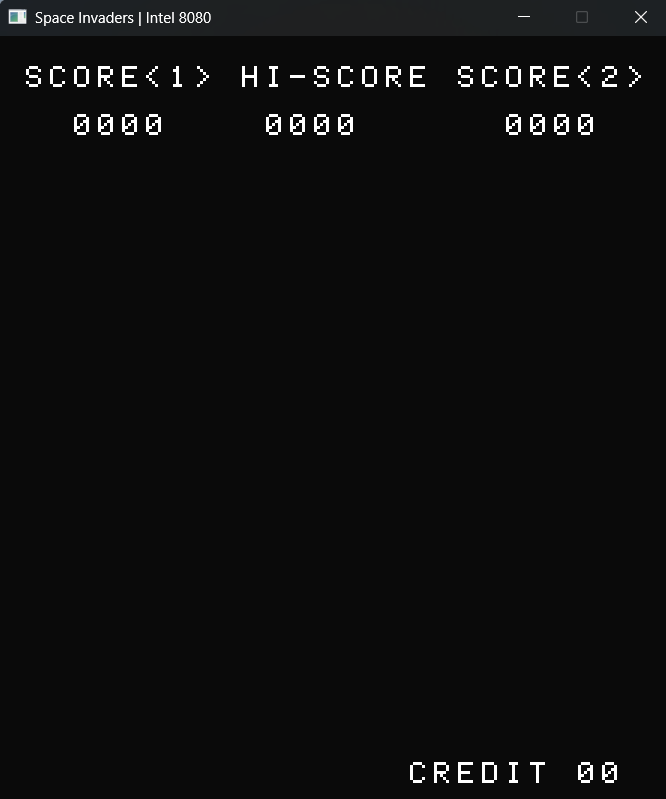
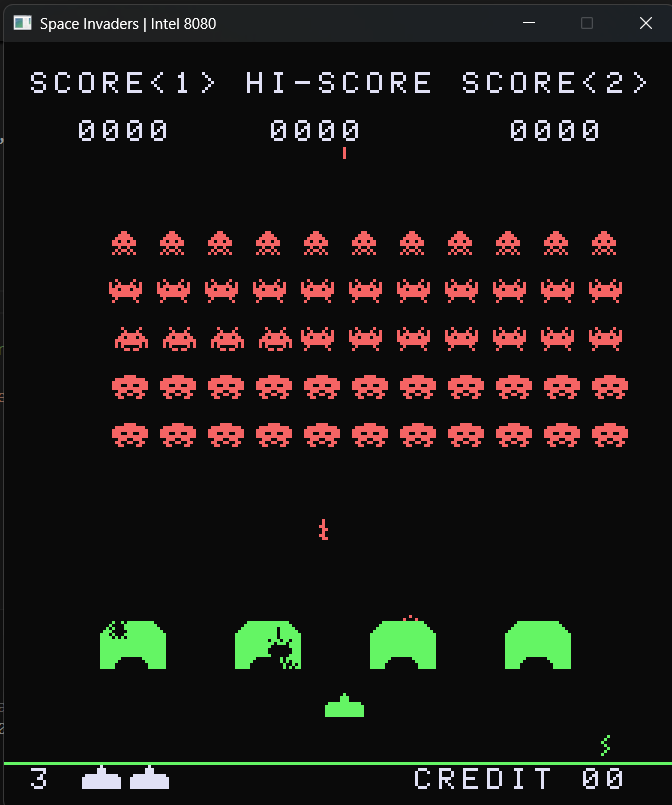
fix(shifting): Fixed 16-bit shifting hardware and now sprites show up properly.

diff --git a/app/src/main.rs b/app/src/main.rs
@@ -2,9 +2,9 @@ mod utils;
 mod invaders_bus;
 
 use sdl3::{event::Event, keyboard::Keycode, pixels::Color, rect::Point};
-use std::{sync::{Arc, RwLock}, thread, time::Duration};
+use std::{cell::RefCell, rc::Rc, sync::{Arc, RwLock}, thread, time::Duration};
 
-use invaders_bus::InvadersBus;
+use invaders_bus::{InvadersBus, InvadersInputState};
 use r8080::{cpu::{Interpreter8080, CPU8080}, Bus8080};
 use utils::read_file_to_vec;
 
@@ -19,9 +19,10 @@ fn main() {
 
     let mut canvas = window.into_canvas();
     canvas.set_scale(3.0, 3.0).unwrap();
-    
-    // Read the ROM data into the bus..
-    let mut invaders_bus = Box::new(InvadersBus::new()) as Box<dyn Bus8080>;
+
+    // Read the ROM data into the bus and prepare the inputs.
+    let input_state = Rc::new(RefCell::new(InvadersInputState{ first: 0x00, second: 0x00 }));
+    let mut invaders_bus = Box::new(InvadersBus::new(input_state.clone())) as Box<dyn Bus8080>;
     invaders_bus.write_buffer(0x0000, read_file_to_vec("roms/invaders.h"));
     invaders_bus.write_buffer(0x0800, read_file_to_vec("roms/invaders.g"));
     invaders_bus.write_buffer(0x1000, read_file_to_vec("roms/invaders.f"));
@@ -43,10 +44,11 @@ fn main() {
 
                 if !cpu.is_running() { break; }
             }
+            println!("[INFO]: Emulation thread stopped.");
         }
     });
 
-    // Our app's main loop.
+    // App's main loop.
     let mut event_pump = context.event_pump().unwrap();
     'main: loop {
         // Forcefully quit the app if somehow our emulator finishes running.
@@ -60,11 +62,28 @@ fn main() {
 
         // Draw the output.
         {
-            canvas.set_draw_color(Color::RGB(255, 255, 255));
-            let bus = shared_bus.read().unwrap();
             for x in 0..224 {
+                // Interrupts based on scanline.
+                if x == 95 {
+                    let mut write_bus = shared_bus.write().unwrap();
+                    write_bus.push_interrupt(0xCF);
+                }
+                if x == 223 {
+                    let mut write_bus = shared_bus.write().unwrap();
+                    write_bus.push_interrupt(0xD7);               
+                }
+
+                let bus = shared_bus.read().unwrap();
                 for y in 0..256 {
-                    let pixel = bus.read_b(0x2400 + (x * 256 + (256 - y)) / 8) & (1 << ((x * 256 + (256 - y)) % 8));
+                    // Color based on scanline.
+                    match y {
+                        34..=192 => { canvas.set_draw_color(Color::RGB(245, 100, 100)); }
+                        193..=240 => { canvas.set_draw_color(Color::RGB(100, 245, 100)); }
+                        _ => { canvas.set_draw_color(Color::RGB(225, 225, 245)); }
+                    }
+
+                    let position = x * 256 + (256 - y);
+                    let pixel = bus.read_b(0x2400 + position / 8) & (1 << (position % 8));
                     if pixel != 0 {
                         canvas.draw_point(Point::new(x as i32, y as i32)).unwrap();
                     }
@@ -79,6 +98,24 @@ fn main() {
                 Event::Quit {..} |
                 Event::KeyDown { keycode: Some(Keycode::Escape), .. } => {
                     break 'main
+                },
+                // 1-P button.
+                Event::KeyDown { keycode: Some(Keycode::K), .. } => {
+                    let mut state = input_state.borrow_mut();
+                    state.first |= 0b00000100;
+                },
+                Event::KeyUp { keycode: Some(Keycode::K), .. } => {
+                    let mut state = input_state.borrow_mut();
+                    state.first &= 0b11111011;
+                },
+                // 2-P button.
+                Event::KeyDown { keycode: Some(Keycode::L), .. } => {
+                    let mut state = input_state.borrow_mut();
+                    state.first |= 0b00000010;
+                },
+                Event::KeyUp { keycode: Some(Keycode::L), .. } => {
+                    let mut state = input_state.borrow_mut();
+                    state.first &= 0b11111101;
                 },
                 _ => {}
             }

diff --git a/app/src/invaders_bus.rs b/app/src/invaders_bus.rs
@@ -1,26 +1,34 @@
+use std::{cell::RefCell, collections::VecDeque, rc::Rc};
+
 use r8080::{cpu::Registers, Bus8080};
+
+pub struct InvadersInputState {
+    pub first: u8,
+    pub second: u8
+}
 
 pub struct InvadersBus
 {
     rom: [u8; 0x2000],
     ram: [u8; 0x400],
-    vram: [u8; 0x1C00]
+    vram: [u8; 0x1C00],
+    shifter: u16,
+    offset: u8,
+    inputs: Rc<RefCell<InvadersInputState>>,
+    interrupts: VecDeque<u8>
 }
 
-#[allow(dead_code)]
 impl InvadersBus
 {
-    pub fn new() -> Self {
+    pub fn new(inputs: Rc<RefCell<InvadersInputState>>) -> Self {
         Self {
             rom: [0x00; 0x2000],
             ram: [0x00; 0x400],
-            vram: [0x00; 0x1C00]
-        }
-    }
-
-    pub fn dump_range(&self, start: u16, end: u16) {
-        for (index, value) in self.ram[start as usize..end as usize].iter().enumerate() {
-            println!("{:04X}: {:02X}", index + start as usize, value)
+            vram: [0x00; 0x1C00],
+            shifter: 0x0000,
+            offset: 0x00,
+            interrupts: VecDeque::new(),
+            inputs
         }
     }
 
@@ -46,14 +54,48 @@ unsafe impl Sync for InvadersBus {}
 
 impl Bus8080 for InvadersBus
 {
+    fn get_interrupt(&mut self) -> u8 {
+        self.interrupts.pop_front().unwrap()
+    }
+
+    fn has_interrupt(&self) -> bool {
+        self.interrupts.front() != None
+    }
+
+    fn push_interrupt(&mut self, b: u8) {
+        self.interrupts.push_back(b);
+    }
+
+    // Refference: https://computerarcheology.com/Arcade/SpaceInvaders/Hardware.html
     fn in_b(&mut self, _: &mut Registers, b: u8) -> u8 {
-        println!("[INFO]: Unhandled read, returned 0xFF from device {:02X} on InvadersBus.", b);
-        0xFF
+        match b {
+            0x1 => {
+                0b10001000 | self.inputs.borrow().first
+            }
+            0x2 => {
+                0b00001000 | self.inputs.borrow().second
+            }
+            0x3 => {
+                ((self.shifter >> (8 - self.offset)) & 0xFF) as u8
+            }
+            0x6 => { /* Watchdog does nothing for us. */ 0xFF }
+            _ => {
+                println!("[INFO]: Unhandled read, returned 0xFF from device {:02X} on InvadersBus.", b);
+                0xFF
+            }
+        }
     }
 
     fn out_b(&mut self, _: &mut Registers, b: u8, a: u8) {
         match b {
-            0x6 => { /* TODO: implement watchdog properly, this should suffice for now. */ }
+            0x2 => {
+                self.offset = b & 0b111;
+            }
+            0x4 => {
+                self.shifter >>= 8;
+                self.shifter |= (a as u16) << 8;
+            }
+            0x6 => { /* Watchdog does nothing for us. */ }
             _ => {
                 println!("[INFO]: Unhandled write {:02X} to device {:02X} on InvadersBus.", a, b);
             }

diff --git a/README.MD b/README.MD
@@ -6,8 +6,9 @@ The main thread handles drawing to the screen and the rest is offset to a separa
 
 ## Status:
 
-<p align="center">
-    <img src=".github/latest.png"/>
+<p style="width:100%;display:flex;">
+    <img style="width:50%" src=".github/splash.png"/>
+    <img style="width:50%" src=".github/latest.png"/>
 </p>
 
 ---
